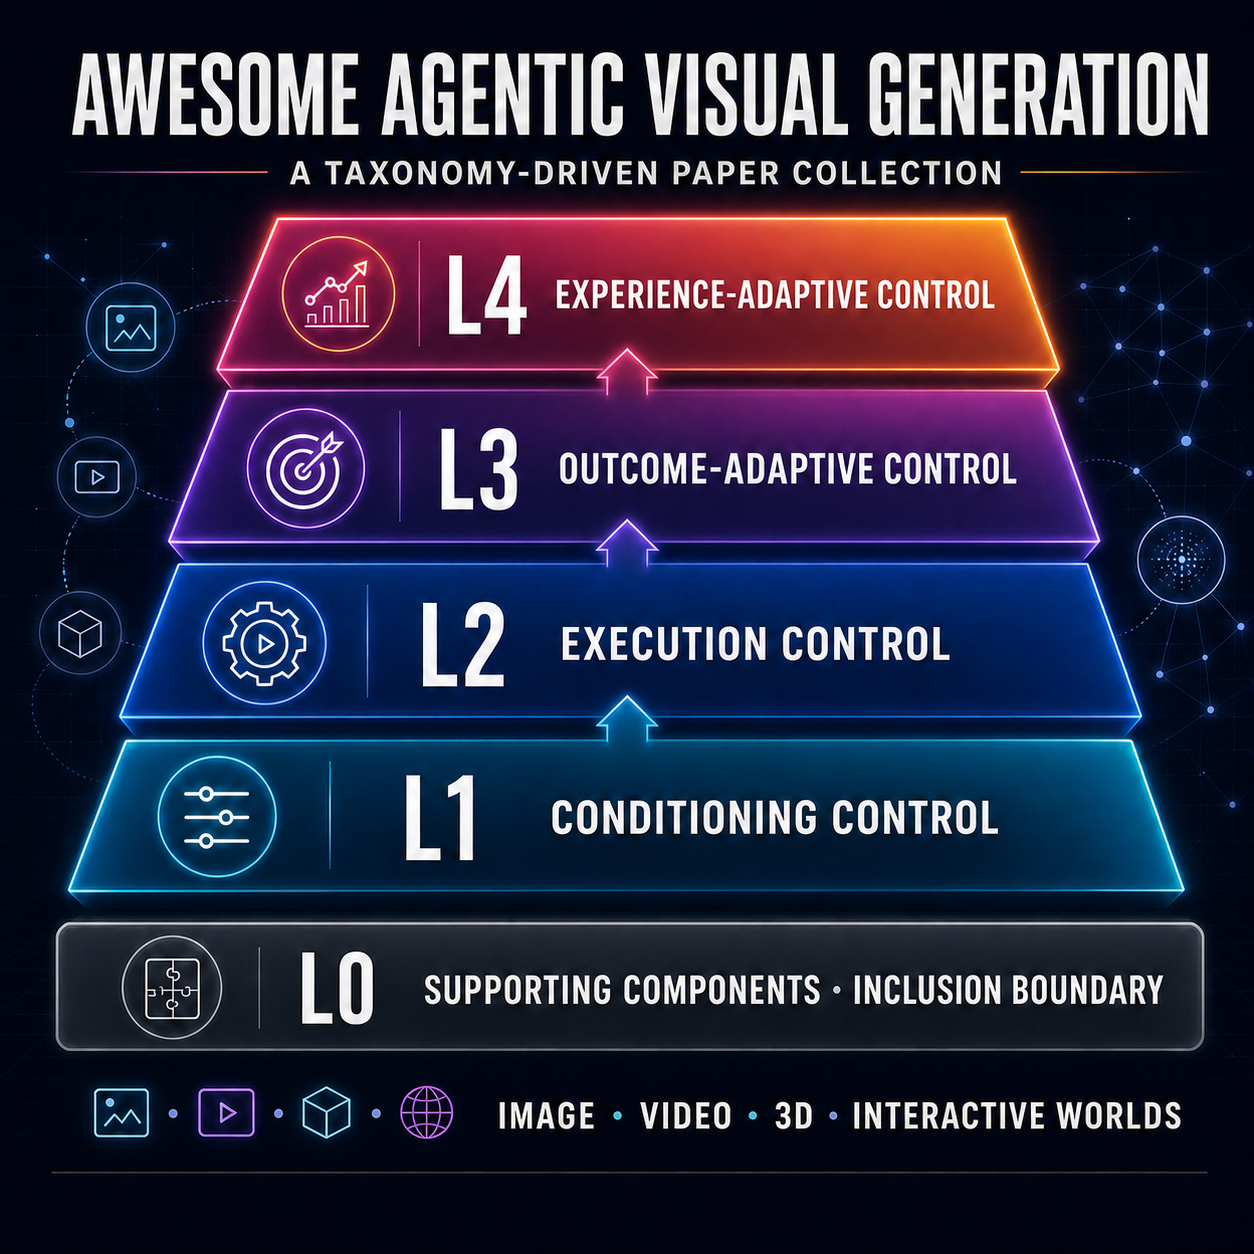
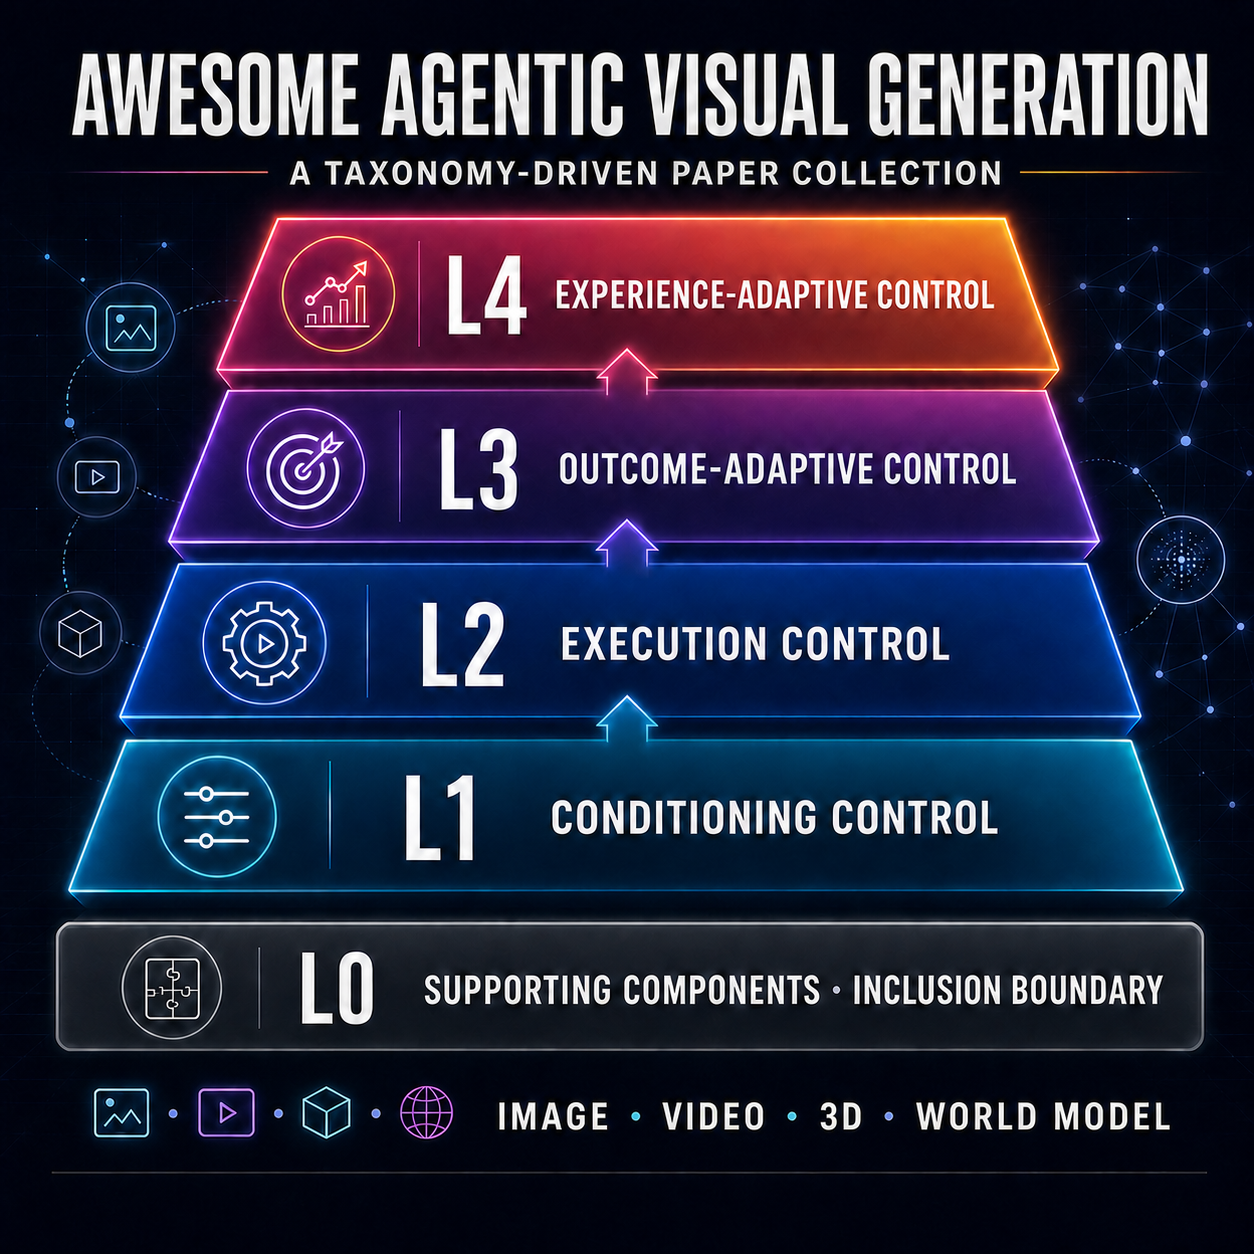
Rename interactive worlds to world models

diff --git a/README.md b/README.md
@@ -12,7 +12,7 @@
 
 **Pull requests are very welcome! Please help us add new papers, official resources, or corrections.**
 
-A curated and taxonomy-driven collection of papers on agents that plan, execute, evaluate, revise, and improve visual generation. The repository covers image generation and editing, video generation and editing, 3D scene construction, and interactive visual worlds.
+A curated and taxonomy-driven collection of papers on agents that plan, execute, evaluate, revise, and improve visual generation. The repository covers image generation and editing, video generation and editing, 3D scene construction, and world models.
 
 The primary organization follows the maximum control authority of the system. Modality and mechanism are secondary tags. This prevents tool use, multi-agent design, memory, or reinforcement learning from being treated as agenticity levels by themselves.
 
